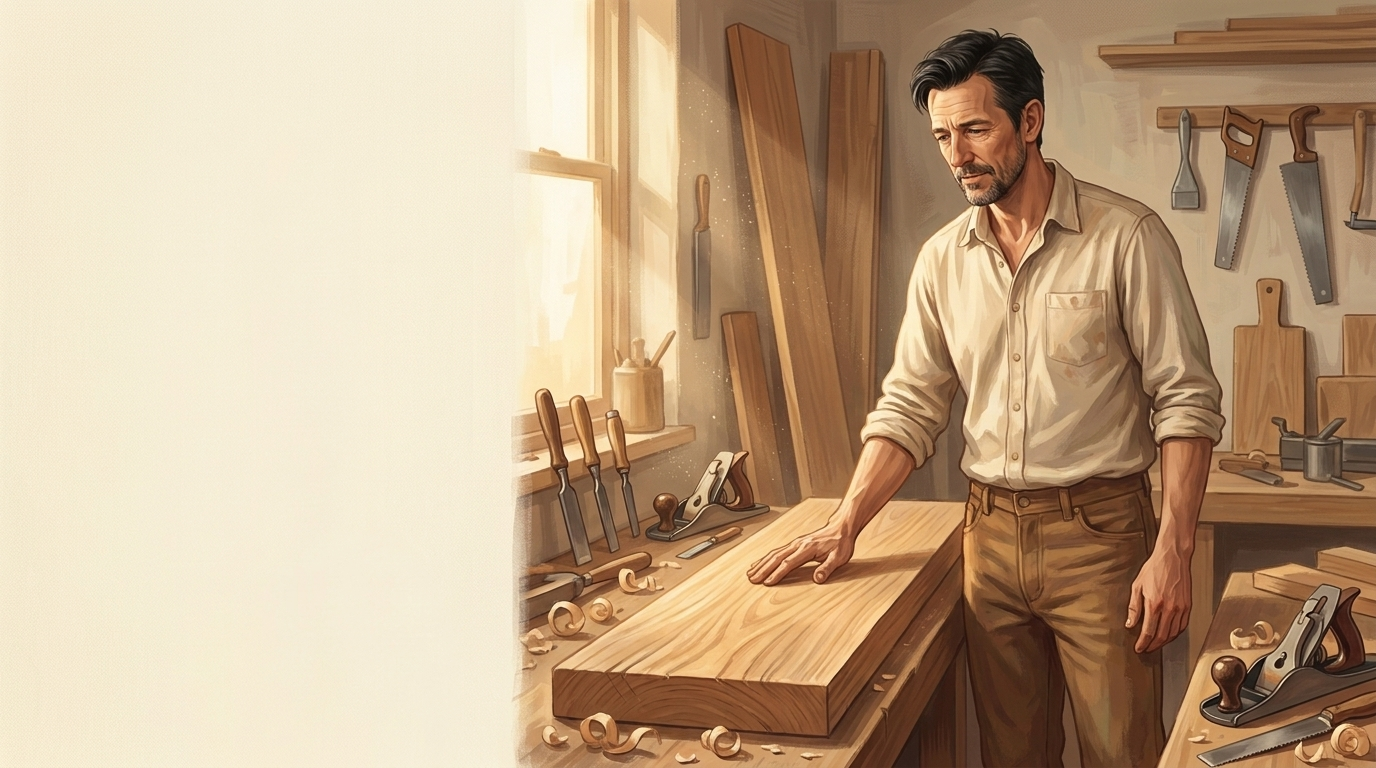
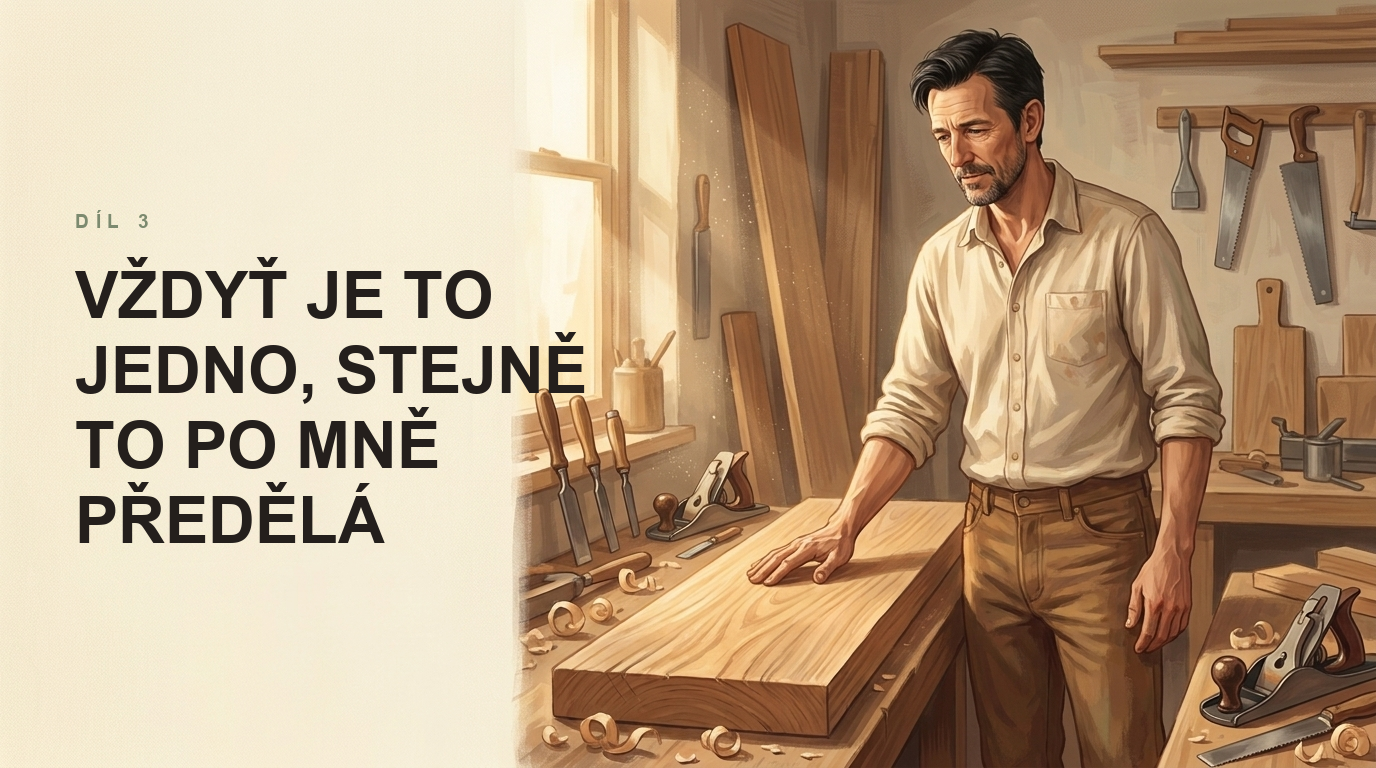
Díl 2: obrázky (kuchyň + Martin u dřezu) a názvy vypálené do bannerů
- dil-02-banner-16x9 (tatáž kuchyň jako na kartě, křivá sklenice, bez lidí)
  a dil-02-karta-3x2 (Martin potichu myje sklenice) — se zamčeným Martinem
- Do bannerů Dílu 2 i 3 vypálen název + číslo dílu (Arial Bold, barvy webu:
  text #241F1C, nadřádek šalvěj #7C8A6F). Čisté verze bez textu ponechány jako
  *-banner-cisty.png pro případ přesazby
- Nový příznak  — stránka pak název nepíše podruhé,
  zůstává jen skrytý H1 pro čtečky a vyhledávače

Changed region(s): [[0.0312, 0.3125, 0.4375, 0.7188], [0.0625, 0.2812, 0.0938, 0.3125]]

diff --git a/app/je-cas-zit/[slug]/page.tsx b/app/je-cas-zit/[slug]/page.tsx
@@ -117,8 +117,9 @@ export default async function DilPage({ params }: Props) {
                   className="object-cover"
                   priority
                 />
-                {/* Titulek v obraze až od md — na mobilu by se do klidné plochy nevešel */}
-                <div className="hidden md:flex absolute inset-y-0 left-0 w-[46%] flex-col justify-center pl-8 lg:pl-12 pr-4">
+                {/* Titulek v obraze až od md — na mobilu by se do klidné plochy nevešel.
+                    Když je název vypálený přímo v banneru, tenhle blok se nekreslí. */}
+                <div className={`${dil.nazevVBanneru ? "hidden" : "hidden md:flex"} absolute inset-y-0 left-0 w-[46%] flex-col justify-center pl-8 lg:pl-12 pr-4`}>
                   <p className="text-xs tracking-[0.35em] uppercase font-medium mb-4" style={{ color: "var(--gold-dark)" }}>
                     Díl {dil.poradi}
                   </p>
@@ -128,8 +129,8 @@ export default async function DilPage({ params }: Props) {
                 </div>
               </div>
 
-              {/* Mobil — název pod obrazem */}
-              <div className="md:hidden text-center mt-8">
+              {/* Mobil — název pod obrazem (u vypáleného názvu je v obraze) */}
+              <div className={`${dil.nazevVBanneru ? "hidden" : "md:hidden"} text-center mt-8`}>
                 <p className="text-xs tracking-[0.35em] uppercase font-medium mb-4" style={{ color: "var(--gold)" }}>
                   Díl {dil.poradi}
                 </p>
@@ -137,6 +138,11 @@ export default async function DilPage({ params }: Props) {
                   {dil.titul}
                 </h1>
               </div>
+              {dil.nazevVBanneru && (
+                <h1 className="sr-only">
+                  Díl {dil.poradi} — {dil.titul}
+                </h1>
+              )}
             </div>
           </section>
         ) : (

diff --git a/lib/dily.ts b/lib/dily.ts
@@ -4,7 +4,7 @@ import path from "node:path";
 /**
  * Díly čteme z markdownu ve složce `obsah/`.
  * Přidat další díl = přidat další .md soubor s hlavičkou (frontmatter):
- *   titul, poradi, slug, datum, anotace, banner, karta, og
+ *   titul, poradi, slug, datum, anotace, banner, karta, nazev_v_banneru, og
  * `skryto: true` = díl je hotový, ale ještě nejde ven (není v přehledu, na vlastní
  * adrese vrací 404 a není v sitemapě). Zveřejní se smazáním toho jednoho řádku.
  * `anotace` = krátký teaser na kartu dílu; s textem dílu nemá nic společného.
@@ -30,6 +30,8 @@ export type Dil = {
   og: string;
   /** true = díl ještě nejde ven (nikde se nezobrazí ani nedohledá) */
   skryto: boolean;
+  /** true = název dílu je vypálený přímo v banneru, stránka ho už nepíše */
+  nazevVBanneru: boolean;
   /** Helenina scéna — odstavce */
   scena: string[];
   /** Autorská dohra Jarky (Cesta s Barnym) — odstavce; může být prázdná */
@@ -126,6 +128,7 @@ function precti(nazevSouboru: string): Dil {
     karta: hlavicka.karta || "",
     og: hlavicka.og || "",
     skryto: (hlavicka.skryto || "").toLowerCase() === "true",
+    nazevVBanneru: (hlavicka.nazev_v_banneru || "").toLowerCase() === "true",
     scena: naOdstavce(scenaText),
     dohra: naOdstavce(dohraText),
   };

diff --git a/obsah/JE-CAS-ZIT-DIL-02-Nejtezsi-host.md b/obsah/JE-CAS-ZIT-DIL-02-Nejtezsi-host.md
@@ -3,6 +3,9 @@ titul: "Nejtěžší host"
 poradi: 2
 slug: nejtezsi-host
 datum: 2026-08-15
+banner: /images/dil-02-banner-16x9.png
+karta: /images/dil-02-karta-3x2.png
+nazev_v_banneru: true
 skryto: true
 anotace: "Ráno po oslavě myje Martin v sedm hodin potichu sklenice. Jednu postaví do skříňky křivě — a Helena ji poprvé v životě nejde srovnat."
 ---

diff --git a/obsah/JE-CAS-ZIT-DIL-03-Vzdyt-je-to-jedno.md b/obsah/JE-CAS-ZIT-DIL-03-Vzdyt-je-to-jedno.md
@@ -5,6 +5,7 @@ slug: vzdyt-je-to-jedno
 datum: 2026-08-16
 banner: /images/dil-03-banner-16x9.png
 karta: /images/dil-03-karta-3x2.png
+nazev_v_banneru: true
 skryto: true
 anotace: "Martin umí spravit celou ulici. Doma odložil nářadí už dávno — protože po něm stejně všechno někdo předělá. Až do dneška, kdy uslyšel jediné slovo."
 ---
